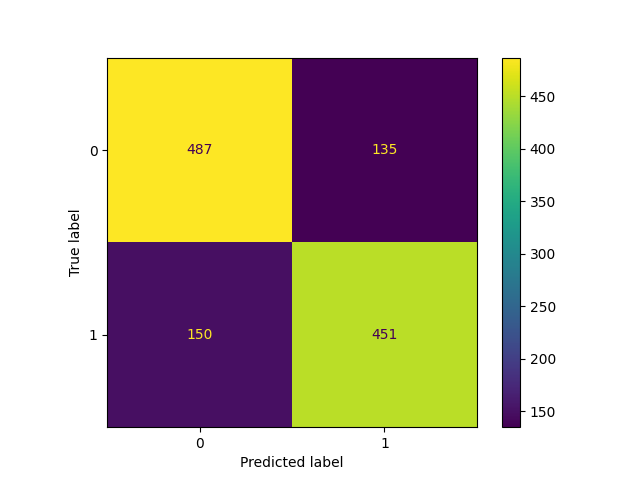
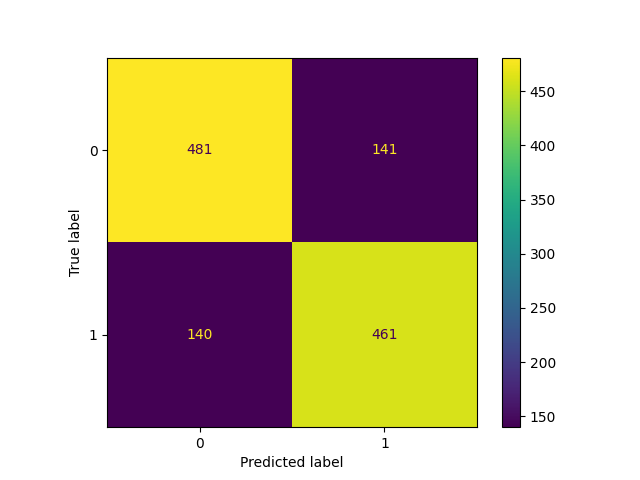
finished creating the api app

diff --git a/app/main.py b/app/main.py
@@ -1,0 +1,62 @@
+from fastapi import FastAPI, HTTPException
+from pydantic import BaseModel
+import pandas as pd
+import mlflow
+mlflow.set_tracking_uri('http://localhost:5000')
+
+from typing import Literal
+import logging
+from inference_preprocess import load_transformer, preprocess_input
+
+logging.basicConfig(level=logging.INFO)
+logger = logging.getLogger(__name__)
+
[1 lines of base64/hex data omitted]
+model = mlflow.pyfunc.load_model(logged_model)
+logger.info(f"Loading model")
+
+app = FastAPI(title="Churn Prediction API")
+
+TRANSFORMER = load_transformer()
+
+class ChurnData(BaseModel):
+    CreditScore: float
+    Geography: str
+    Gender: str
+    Age: float
+    Tenure: float
+    Balance: float
+    NumOfProducts: int
+    HasCrCard: Literal[0, 1]
+    IsActiveMember: Literal[0, 1] 
+    EstimatedSalary: float
+
+@app.get("/")
+def home():
+    logger.info("Home endpoint called")
+    return {"message": "Welcome to the Churn Prediction API!"}
+
+@app.get("/health")
+def health():
+    logger.info("Health check endpoint called")
+    return {"status": "healthy"}
+
+@app.post("/predict")
+def predict(data: ChurnData):
+    try:
+        logger.info(f"Prediction requested with input: {data}")
+
+        input_df = preprocess_input(dict(data), TRANSFORMER)
+        prediction = model.predict(input_df)
+        result = int(prediction[0])
+
+        logger.info(f"Prediction result: {result}")
+        return {"churn_prediction": result}
+
+    except Exception as e:
+        logger.error(f"Error during prediction: {e}")
+        return HTTPException(status_code=500, detail=e)
+    
+if __name__ == "__main__":
+    import uvicorn
+    uvicorn.run(app, host="127.0.0.1", port=8000)

diff --git a/app/inference_preprocess.py b/app/inference_preprocess.py
@@ -1,0 +1,35 @@
+import pandas as pd
+import joblib
+import os
+
+TRANSFORMER_PATH = "mlartifacts/transformer.pkl"
+def load_transformer(path=TRANSFORMER_PATH):
+    """
+    Load the saved ColumnTransformer.
+
+    Args:
+        path (str): Path to the transformer.pkl file
+
+    Returns:
+        ColumnTransformer: Trained transformer
+    """
+    if not os.path.exists(path):
+        raise FileNotFoundError(f"Transformer file not found at: {path}")
+    transformer = joblib.load(path)
+    return transformer
+
+def preprocess_input(input_data: dict, transformer):
+    """
+    Preprocess input data for prediction.
+
+    Args:
+        input_data (dict): Raw input dictionary from API
+        transformer (ColumnTransformer): Fitted transformer
+
+    Returns:
+        pd.DataFrame: Preprocessed data ready for model prediction
+    """
+    df = pd.DataFrame([input_data])  # Convert input dict to single-row DataFrame
+    transformed = transformer.transform(df)
+    transformed_df = pd.DataFrame(transformed, columns=transformer.get_feature_names_out())
+    return transformed_df

diff --git a/tests/test_api.py b/tests/test_api.py
@@ -1,0 +1,38 @@
+import os
+import sys
+
+ROOT = os.path.abspath(os.path.join(os.path.dirname(__file__), ".."))
+if ROOT not in sys.path:
+    sys.path.insert(0, ROOT)
+
+from fastapi.testclient import TestClient
+from app.main import app
+
+client = TestClient(app)
+
+def test_home():
+    response = client.get("/")
+    assert response.status_code == 200
+    assert "Welcome" in response.json()["message"]
+
+def test_health():
+    response = client.get("/health")
+    assert response.status_code == 200
+    assert response.json()["status"] == "healthy"
+
+def test_predict():
+    sample_input = {
+        "CreditScore": 600,
+        "Geography": "France",
+        "Gender": "Male",
+        "Age": 40,
+        "Tenure": 3,
+        "Balance": 60000.0,
+        "NumOfProducts": 2,
+        "HasCrCard": 1,
+        "IsActiveMember": 1,
+        "EstimatedSalary": 50000.0
+    }
+    response = client.post("/predict", json=sample_input)
+    assert response.status_code == 200
+    assert "churn_prediction" in response.json()

diff --git a/src/train.py b/src/train.py
@@ -34,7 +34,7 @@ def train(X_train, y_train):
     Returns:
         model: trained model
     """
-    model = lgb(n_estimators=200,max_depth=5,learning_rate=0.01)
+    model = lgb(n_estimators=150,max_depth=5,learning_rate=0.01)
     model.fit(X_train, y_train)
 
     ### Log the model with the input and output schema

diff --git a/src/preprocessing/preprocess.py b/src/preprocessing/preprocess.py
@@ -92,7 +92,7 @@ def preprocess(df):
     X_test = pd.DataFrame(X_test, columns=col_transf.get_feature_names_out())
 
     #Log the trasnformer as an artifact
-    path = "transformer.pkl"
+    path = "mlartifacts/transformer.pkl"
     joblib.dump(col_transf, path)
     log_artifact(path, artifact_path="Transformer")
 

diff --git a/app/__init__.py b/app/__init__.py
@@ -1,0 +1,1 @@
+from .main import app

diff --git a/README.md b/README.md
@@ -20,7 +20,7 @@ This repository contains a module for trying some models to get experience with 
 
 - Model Training and Logging: We can use any model and play with hyperparameters.
 
-MLflow Integration:
+## MLflow Integration:
 
 - Logs parameters and evaluation metrics (accuracy, precision, recall, F1-score).
 
@@ -35,12 +35,68 @@ MLflow Integration:
 ## Selected Model
 
 - For our case the model selected was a LightGBM classifier as it has the maximum overall scores in F1 and accuracy scores.
-- Key Parameters: n_estimators: 150, Max_depth: 5, learning_rate: 0.01 
+- Key Parameters: n_estimators: 150, Max_depth: 5, learning_rate: 0.01
 
 - ![Best Model:](misc/Scores.png)
 
 ## Model Registering
 
-- The best model was registered for production while the lease cashe size model was registerd for staging, If the production model has issues due to cashe size, the staging model will be served for production. This is a simulation only, not a real approach for our case.
+- The best model was registered for production while the least cashe size model was registerd for staging, If the production model has issues due to cashe size, the staging model will be served for production. This is a simulation only, not a real approach for our case.
 
 - ![alt text](<Screenshot from 2025-05-21 09-44-07.png>)
+
+## Requirments
+
+All the requirements are in `requirements.txt`
+
+To create the env:
+
+    ```bash
+    conda create --name mlflow_env python=3.12
+    conda activate mlflow_env
+    pip install -r requirements.txt
+    ```
+
+## 🚀 Serving & Testing with FastAPI
+
+### 1. API Endpoints
+
+We exposed three endpoints via FastAPI in `app/main.py`:
+
+- **Home** (`GET /`)  
+  A simple welcome message.
+- **Health check** (`GET /health`)  
+  Returns:
+
+  ```json
+  { "status": "healthy" }
+  ```
+
+- **Predict** (`POST /predict`)
+  Accepts a JSON body matching our CustomerData schema, applies the saved transformer and MLflow-logged LightGBM model, and returns:
+
+  ```json
+  { "churn_prediction": 0 }
+  ```
+
+  where 0 or 1 is the model’s churn prediction.
+
+### 2. Testing with TestClient
+
+We wrote tests/test_api.py to verify each endpoint without running a live server
+
+### 3. Running the Tests
+
+  from your project root:
+
+  ```bash
+  pytest tests/
+  ```
+
+  You should see:
+  
+  ![alt text](misc/image-1.png)
+  
+  This is a swagger ui screenshot:
+
+  ![alt text](misc/swaggerui.png)
